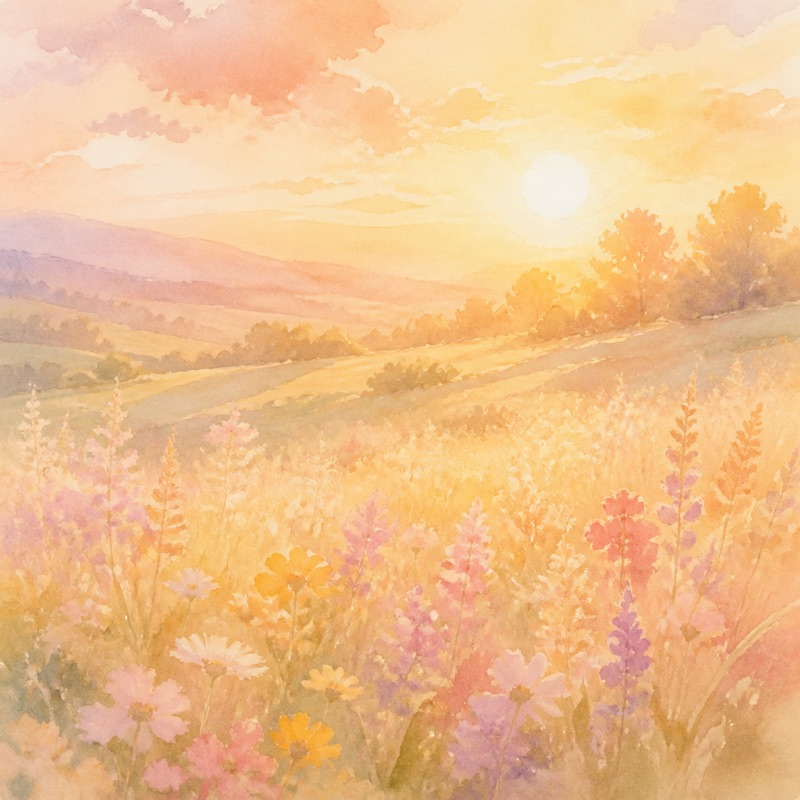
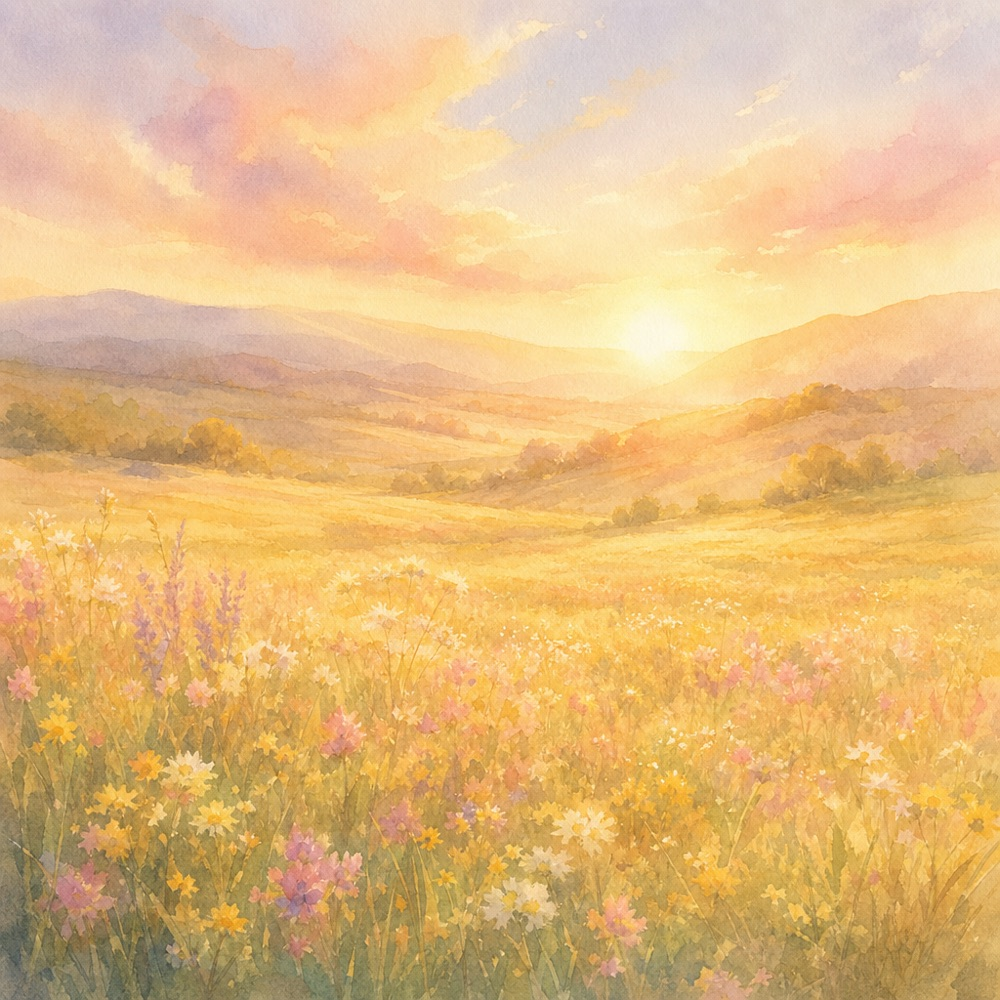
feat: Story 5 sample set (senior dog) + preview PDF
Replace Story 5 ("A Letter to Your Pet") placeholder tiles with a real
senior-dog memorial sample at the locked mixed PRODUCTION_QUALITY tier
(HIGH note-cover + MEDIUM note-page-5 + LOW reference, ~$0.30 paid run)
plus a slim 6-page preview.pdf, via the PR-0 sample harness over the
committed uploads/sample-photos/dog-senior.jpg. Deliberately a different
breed from the Story-1 boxer so the two dog samples read as distinct
animals (a senior brindle terrier-mix, "Biscuit").

- fixtures/sample-story5-dog.json: complete Story-5 memorial session,
  resolveStory5-validated (zero [FIELD], "died" quality bar held,
  toggles euthanasia/heaven), dog species (no "other"-grammar traps)
- public/samples/story-5-letter-to/: note-cover.jpg + note-page-5.jpg
  (overwrote placeholders) + new slim preview.pdf
- lib/catalog/products.ts: wire story-5-letter-to.previewPdf
  (sampleImages unchanged, module stays pure/client-safe)
- lib/catalog/products.test.ts: add to WITH_PREVIEW + assertion

Clean replay of shipped PR-02 (cat) / PR-04 (guinea pig); note-page-5
already in LETTER_WASH_PAGE_IDS so the PR-04 page-render gap does not
recur. Reviews PASS/IN SYNC, QA 4/4, 1958 tests green, build clean.

diff --git a/lib/catalog/products.test.ts b/lib/catalog/products.test.ts
@@ -167,6 +167,7 @@ describe("story-1-book sample preview", () => {
       ["story-1-book", "/samples/story-1-book/preview.pdf"],
       ["story-2-letter", "/samples/story-2-letter/preview.pdf"],
       ["story-4-talk", "/samples/story-4-talk/preview.pdf"],
+      ["story-5-letter-to", "/samples/story-5-letter-to/preview.pdf"],
     ]);
     for (const product of getProducts()) {
       const expected = WITH_PREVIEW.get(product.productId);
@@ -187,6 +188,12 @@ describe("story-1-book sample preview", () => {
   it("sets story-4-talk previewPdf to its published full-book sample PDF", () => {
     expect(getProduct("story-4-talk")!.previewPdf).toBe(
       "/samples/story-4-talk/preview.pdf",
+    );
+  });
+
+  it("sets story-5-letter-to previewPdf to its published full-book sample PDF", () => {
+    expect(getProduct("story-5-letter-to")!.previewPdf).toBe(
+      "/samples/story-5-letter-to/preview.pdf",
     );
   });
 

diff --git a/lib/catalog/products.ts b/lib/catalog/products.ts
@@ -278,6 +278,7 @@ function buildCatalog(): Product[] {
         "/samples/story-5-letter-to/note-cover.jpg",
         "/samples/story-5-letter-to/note-page-5.jpg",
       ],
+      previewPdf: "/samples/story-5-letter-to/preview.pdf",
       audience: "loss",
     }),
     buildProduct("story-6-tribute", "story-6", {

diff --git a/context/history/2026-06-15-story-samples-pr-05-letter-to-senior-dog.md b/context/history/2026-06-15-story-samples-pr-05-letter-to-senior-dog.md
@@ -1,0 +1,70 @@
+# Story Samples PR-05: "A Letter to Your Pet" (Senior Dog) Sample Set
+
+**Date:** 2026-06-15
+**Branch:** `feature/story-samples-05`
+**Spec:** `context/features/story-samples-05-letter-to-dog.md`
+**Milestone:** 17 — Storefront sample assets
+
+---
+
+## What shipped
+
+The catalog's **second dog sample — deliberately a different breed from the Story-1
+boxer** — a real **senior-dog** memorial sample for Story 5 ("A Letter to Your Pet," the
+owner→pet companion of Story 2). Replaced the two placeholder tiles at
+`public/samples/story-5-letter-to/` with a generated book at the locked mixed
+`PRODUCTION_QUALITY` tier (HIGH `note-cover` + MEDIUM `note-page-5` + LOW reference, a
+~$0.30 paid run) plus a slim downloadable `preview.pdf`, and surfaced the
+"See the full book (PDF)" affordance on the detail page. The two dog samples in the
+catalog now read as visibly different animals (boxer vs. senior brindle terrier-mix).
+
+Built via the PR-0 harness (`scripts/sample-run.ts` → `scripts/sample-capture.ts`) over the
+committed `uploads/sample-photos/dog-senior.jpg`.
+
+## Deliverables
+
+- **`fixtures/sample-story5-dog.json`** (new) — a complete Story-5 memorial session
+  ("Biscuit," `she`, a small senior brindle terrier-mix, `species: "dog"`, photo
+  `uploads/sample-photos/dog-senior.jpg`; owner "Margaret," single; toggles
+  `deathType: "euthanasia"` + `beliefFrame: "heaven"` — deliberately distinct branches from
+  the Murphy reference fixture and the cat sample). The `breedColor` describes the senior
+  terrier-mix (grey muzzle, asymmetric ears) — unmistakably not the boxer. Resolves through
+  `resolveStory5` with **zero surviving `[FIELD]`** and honors the "died" quality bar (no
+  "passed away"). `species: "dog"`, so none of the PR-04 `"other"`-grammar traps apply.
+- **`public/samples/story-5-letter-to/`** — `note-cover.jpg` + `note-page-5.jpg` (overwrote
+  placeholders) + new slim 6-page `preview.pdf` (~655 KB).
+- **`lib/catalog/products.ts`** — added `previewPdf: "/samples/story-5-letter-to/preview.pdf"`
+  to the `story-5-letter-to` product (`sampleImages` unchanged; module stays pure/client-safe,
+  no `lib/ai/*` import).
+- **`lib/catalog/products.test.ts`** — added `story-5-letter-to` to the `WITH_PREVIEW` map +
+  a dedicated `previewPdf` assertion (mirrors story-1/2/4).
+
+## Paid run
+
+Approach A / Premium, mixed `PRODUCTION_QUALITY` (HIGH `note-cover` + MEDIUM `note-page-5` +
+LOW reference), 2 slots, both fresh cache misses, ≈ **$0.30**; OpenAI key verified 200 first.
+The pet held **strongly on-model** — the cover is a faithful watercolor portrait of the
+senior brindle terrier-mix (correct coat, grey muzzle, asymmetric ears, 3/4 pose);
+`note-page-5` is the figure-free golden-hour wildflower-meadow belief wash (by design for the
+heaven frame, in `LETTER_WASH_PAGE_IDS` so both illustrations render).
+
+## Verification
+
+- **Reviews:** code-reviewer **PASS** (catalog/test edits correct, fixture valid, module
+  stays pure/client-safe); context-auditor **IN SYNC** (no doc drift — `previewPdf` already
+  documented as standard, `WITH_PREVIEW` widening is the intended per-PR pattern). No
+  commerce-security review — diff touches no orders/payment/auth/Supabase surface.
+- **QA:** 4/4 PASS in a real browser — page loads with 0 console errors, both real tiles
+  load (1000×1000, not placeholder paw art), PDF link returns 200 (`application/pdf`, 655 KB,
+  6 pages). `$0` QA spend.
+- **Gates:** `npm run test:run` → **1958 passed** (+1); `npm run build` → ✓ compiled
+  successfully; detail page stays `●` SSG; boundary test unaffected. No new dependency, no
+  engine/route/worker/state-machine change.
+
+## Notes
+
+A clean replay of the shipped PR-02 (cat) / PR-04 (guinea pig) pattern. Unlike PR-04 there
+were no pre-existing product bugs to fold in: `note-page-5` was already in
+`LETTER_WASH_PAGE_IDS` (so the PR-04 page-render gap does not recur), and Story 5's `dog`
+species never touches the `"other"`-grammar or raw-`{species}` body-leak classes. No durable
+deferrals.

diff --git a/.claude/agent-memory/context-auditor/previewpdf-series-backfill-lag.md b/.claude/agent-memory/context-auditor/previewpdf-series-backfill-lag.md
@@ -21,16 +21,16 @@ engine default; the mixed `PRODUCTION_QUALITY` is the sample tier.
   title-agnostic. Stays in sync as more titles ship one. Do NOT flag.
 - new-book-playbook.md ~L302-308 ("`previewPdf` is part of the standard set") — already
   correct.
-- **new-book-playbook.md ~L224-229 (Step-4 field-list bullet)** — the laggard: "**Omit it**
-  unless you've captured one. **Today only `story-1-book` carries one**." This sentence goes
-  stale the moment a second title ships a previewPdf (Story 2 cat sample = first such PR).
-  Flag as *update doc* — it now misleads a future book author into thinking previewPdf is
-  exceptional. Recommend rewording to: previewPdf is the standard slim preview (wire it once
-  you've captured a sample set); Story 1's *full-res HIGH* variant is the only exception.
+- **new-book-playbook.md Step-4 field-list bullet (~L224-230)** — was the laggard ("Today only
+  `story-1-book` carries one"); **now FIXED** (verified PR-05, 2026-06-15): the bullet reads
+  "It is part of the **standard** sample set … The one exception is `story-1-book`, which
+  *additionally* carries a one-time full-res HIGH preview." Title-agnostic + correct. Do NOT flag.
+- new-book-playbook.md ~L303-309 also title-agnostic ("standard set", Story 1 HIGH = lone exception).
 
 **How to apply:** on any `feature/story-samples-NN` branch, grep new-book-playbook.md for
-"only `story-1-book`" / "Today only" / "the documented exception" near the Step-4 field list.
-If still phrased Story-1-only, that's the (recurring) blocking-ish staleness finding. The
+"only `story-1-book`" / "Today only" near the Step-4 field list. As of PR-05 both previewPdf
+passages are reframed standard-not-Story-1-only — so this lag is resolved unless a future
+edit regresses it. If still phrased Story-1-only, that's the (recurring) blocking-ish finding. The
 test invariant (`lib/catalog/products.test.ts`) was correctly relaxed PR-by-PR from
 "exactly Story 1" to a per-product WITH_PREVIEW set — code side is fine; the doc bullet lags.
 

diff --git a/context/history.md b/context/history.md
@@ -120,6 +120,7 @@ not buried in the write-up.
 - 2026-06-15 — Story Samples PR-0: Candidate Photos + Capture Harness — `feature/story-samples-foundation` — the shared foundation for giving every title a full storefront sample set: tracked `uploads/sample-photos/` (`.gitignore` negation, fixes the non-reproducible Story-1-in-gitignored-`uploads/` pattern) + 7 vetted royalty-free Pexels photos one-per-species (cat/cat-senior/dog-senior/corgi/cockatiel/rabbit/guinea-pig, ~0.8 MB, source+license recorded); story-agnostic `scripts/sample-run.ts` (generates at the worker's `PRODUCTION_QUALITY` constant — samples can't drift from customer output) + `scripts/sample-capture.ts` (`sips` web JPGs by slot id + a *slim* `preview.pdf` from the downscaled images, no new dep) + `proto:sample`; PM-directed Story-4↔9 species swap (Story 4 → guinea pig/`other`, Story 9 → rabbit) propagated through both renamed per-story specs + the PR-0/README tables; review reframed the playbook/coding-standards so PRODUCTION_QUALITY is the standard sample tier (LOW = dev default) and `previewPdf` is standard not flagship-only; **surfaced + debt-logged a pre-existing latent gap — Story-9 illustration generation isn't wired (no dispatch branch → falls through to Story-1; `story9-prompts` never invoked; `manifestToImageMap` omits its slots), a medium pre-flight gate before PR-09 spends**; no paid run, no engine/catalog/route change, 1951 tests green → [archive](history/2026-06-15-story-samples-pr-0-photos-and-harness.md)
 - 2026-06-15 — Story Samples PR-02: "A Letter from Your Pet" (Cat) Sample Set — `feature/story-samples-02` (91f5766, merge 290ba7e) — the catalog's **first non-dog sample**: replaced Story 2's 2 placeholder tiles with a real **cat** sample book at the locked mixed `PRODUCTION_QUALITY` tier (HIGH `letter-cover` + MEDIUM `letter-page-5` + LOW reference, ~$0.30 paid run) + a slim downloadable `preview.pdf`, via the PR-0 harness + committed `cat.jpg`; new `fixtures/sample-story2-cat.json` ("Clementine," a grey British Longhair — `resolveStory2`-validated: zero `[FIELD]`, quality bar honored, species merge → cat phrasing), pet held strongly on-model; `story-2-letter.previewPdf` wired (mirrors Story 1), products test relaxed from "only Story 1" to a per-product `WITH_PREVIEW` set; review fixed playbook drift (previewPdf reframed standard-not-Story-1-only); QA PASS (`●` SSG, gallery + PDF 200, no 404s), 1952 tests green → [archive](history/2026-06-15-story-samples-pr-02-letter-from-cat.md)
 - 2026-06-15 — Story Samples PR-04: "If Your Pet Could Talk" (Guinea Pig) Sample Set — `feature/story-samples-04` — the catalog's **first `species:"other"` sample**: replaced Story 4's 2 placeholder tiles with a real **guinea pig** sample book at the locked mixed `PRODUCTION_QUALITY` tier (HIGH `talk-cover` + MEDIUM `talk-page-4` + LOW reference, ~$0.30) + slim `preview.pdf` + wired `story-4-talk.previewPdf`, via the PR-0 harness + committed `other.jpg`; new `fixtures/sample-story4-other.json` ("Pepper," a tri-colour guinea pig, `resolveStory4`-validated zero `[FIELD]`, living path), pet held on-model; **two pre-existing Story-4 bugs folded in (both byte-safe, both hit the live product):** (1) `species:"other"` Page-6 climax rendered "a other can love" → new pure `climaxSpeciesNoun()` ("other"→"friend", other species byte-identical), wrong test corrected — the catalog-wide `"other"` grammar sibling (Stories 1/2/5/7/8) debt-logged, not fixed; (2) page-4 illustration never rendered (PM caught it — only the cover showed; `talk-page-4` was never in the letter renderer's image allow-list since PR-21) → new `LETTER_FEATURE_PAGE_IDS`/`LetterFeature`/`.letter-page__feature` proper feature treatment (PM chose feature over the soft wash) in `pages-story2.tsx` + `styles.css` + screen mirror in `globals.css` + new `template.story4.test.tsx`, Story 1/2/5 byte-identical, preview now shows both illustrations (6 pages, no 7th), pdftoppm-verified; review (code-reviewer 1-blocker-fixed + context-auditor IN SYNC, no commerce-security) + QA 5/5 PASS, 1957 tests green → [archive](history/2026-06-15-story-samples-pr-04-could-talk-guinea-pig.md)
+- 2026-06-15 — Story Samples PR-05: "A Letter to Your Pet" (Senior Dog) Sample Set — `feature/story-samples-05` — the catalog's **second dog sample, a deliberately different breed from the Story-1 boxer**: replaced Story 5's 2 placeholder tiles with a real **senior-dog** memorial sample at the locked mixed `PRODUCTION_QUALITY` tier (HIGH `note-cover` + MEDIUM `note-page-5` + LOW reference, ~$0.30) + slim 6-page `preview.pdf` + wired `story-5-letter-to.previewPdf`, via the PR-0 harness + committed `dog-senior.jpg`; new `fixtures/sample-story5-dog.json` ("Biscuit," a small senior brindle terrier-mix, `resolveStory5`-validated zero `[FIELD]`, "died" quality bar held, toggles `euthanasia`/`heaven`), pet held strongly on-model (cover portrait + figure-free golden-hour belief wash); clean replay of PR-02/PR-04 with no pre-existing bugs to fold in (`note-page-5` already in `LETTER_WASH_PAGE_IDS`, `dog` avoids the `"other"`-grammar traps); review (code-reviewer PASS + context-auditor IN SYNC, no commerce-security) + QA 4/4 PASS, 1958 tests green → [archive](history/2026-06-15-story-samples-pr-05-letter-to-senior-dog.md)
 
 ## Dev-process & tooling
 